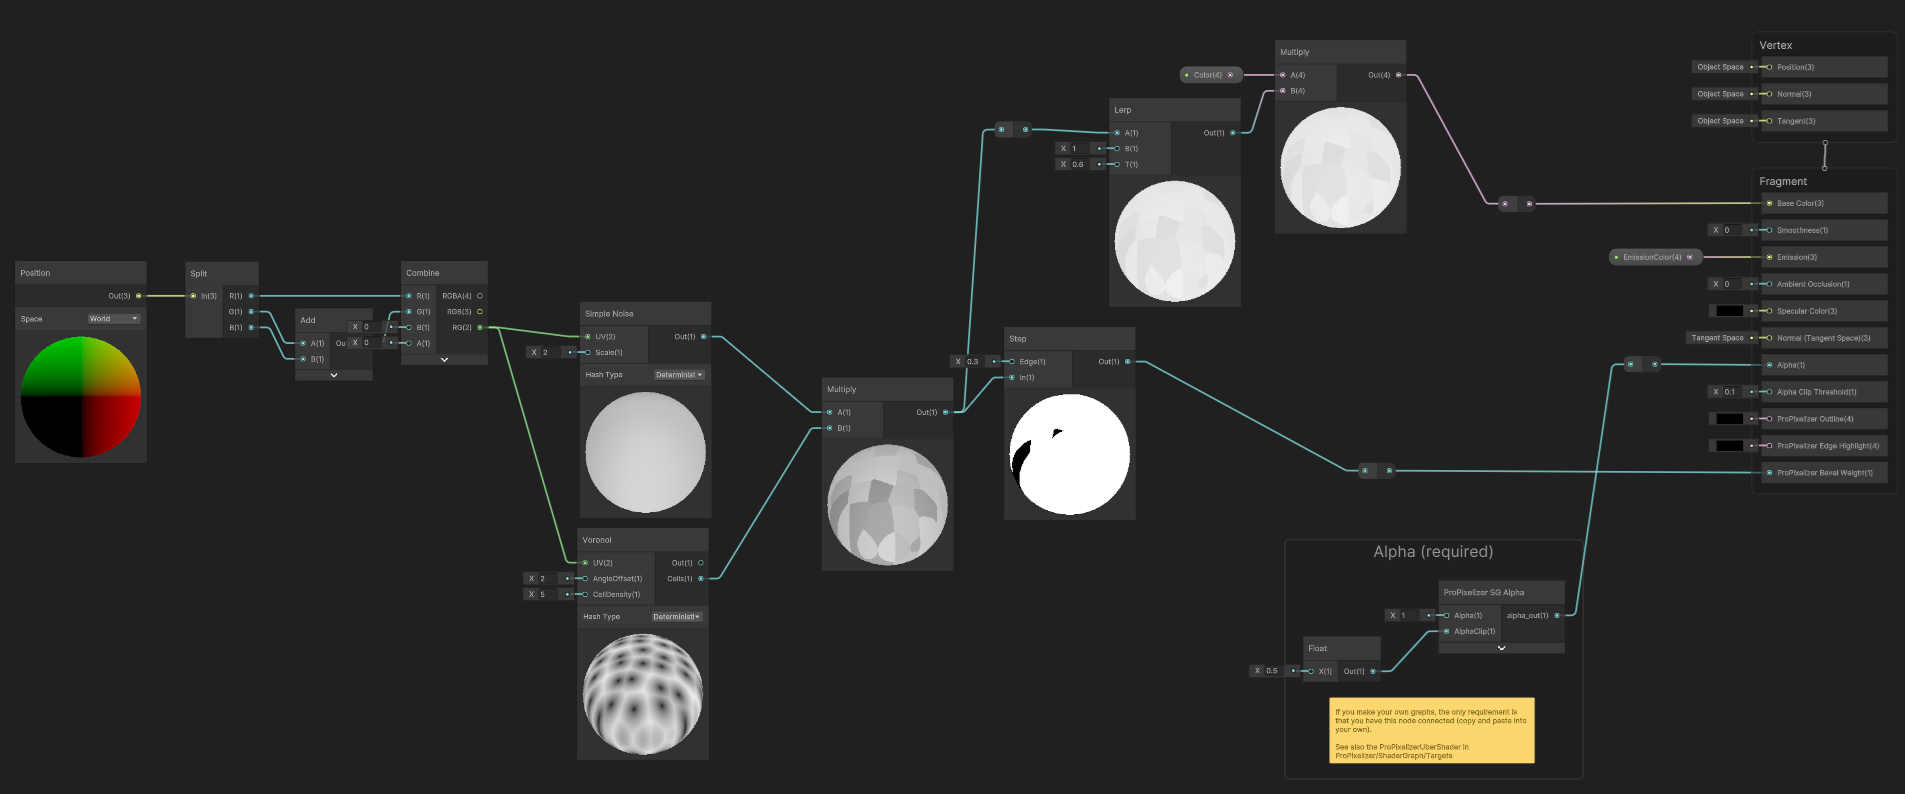
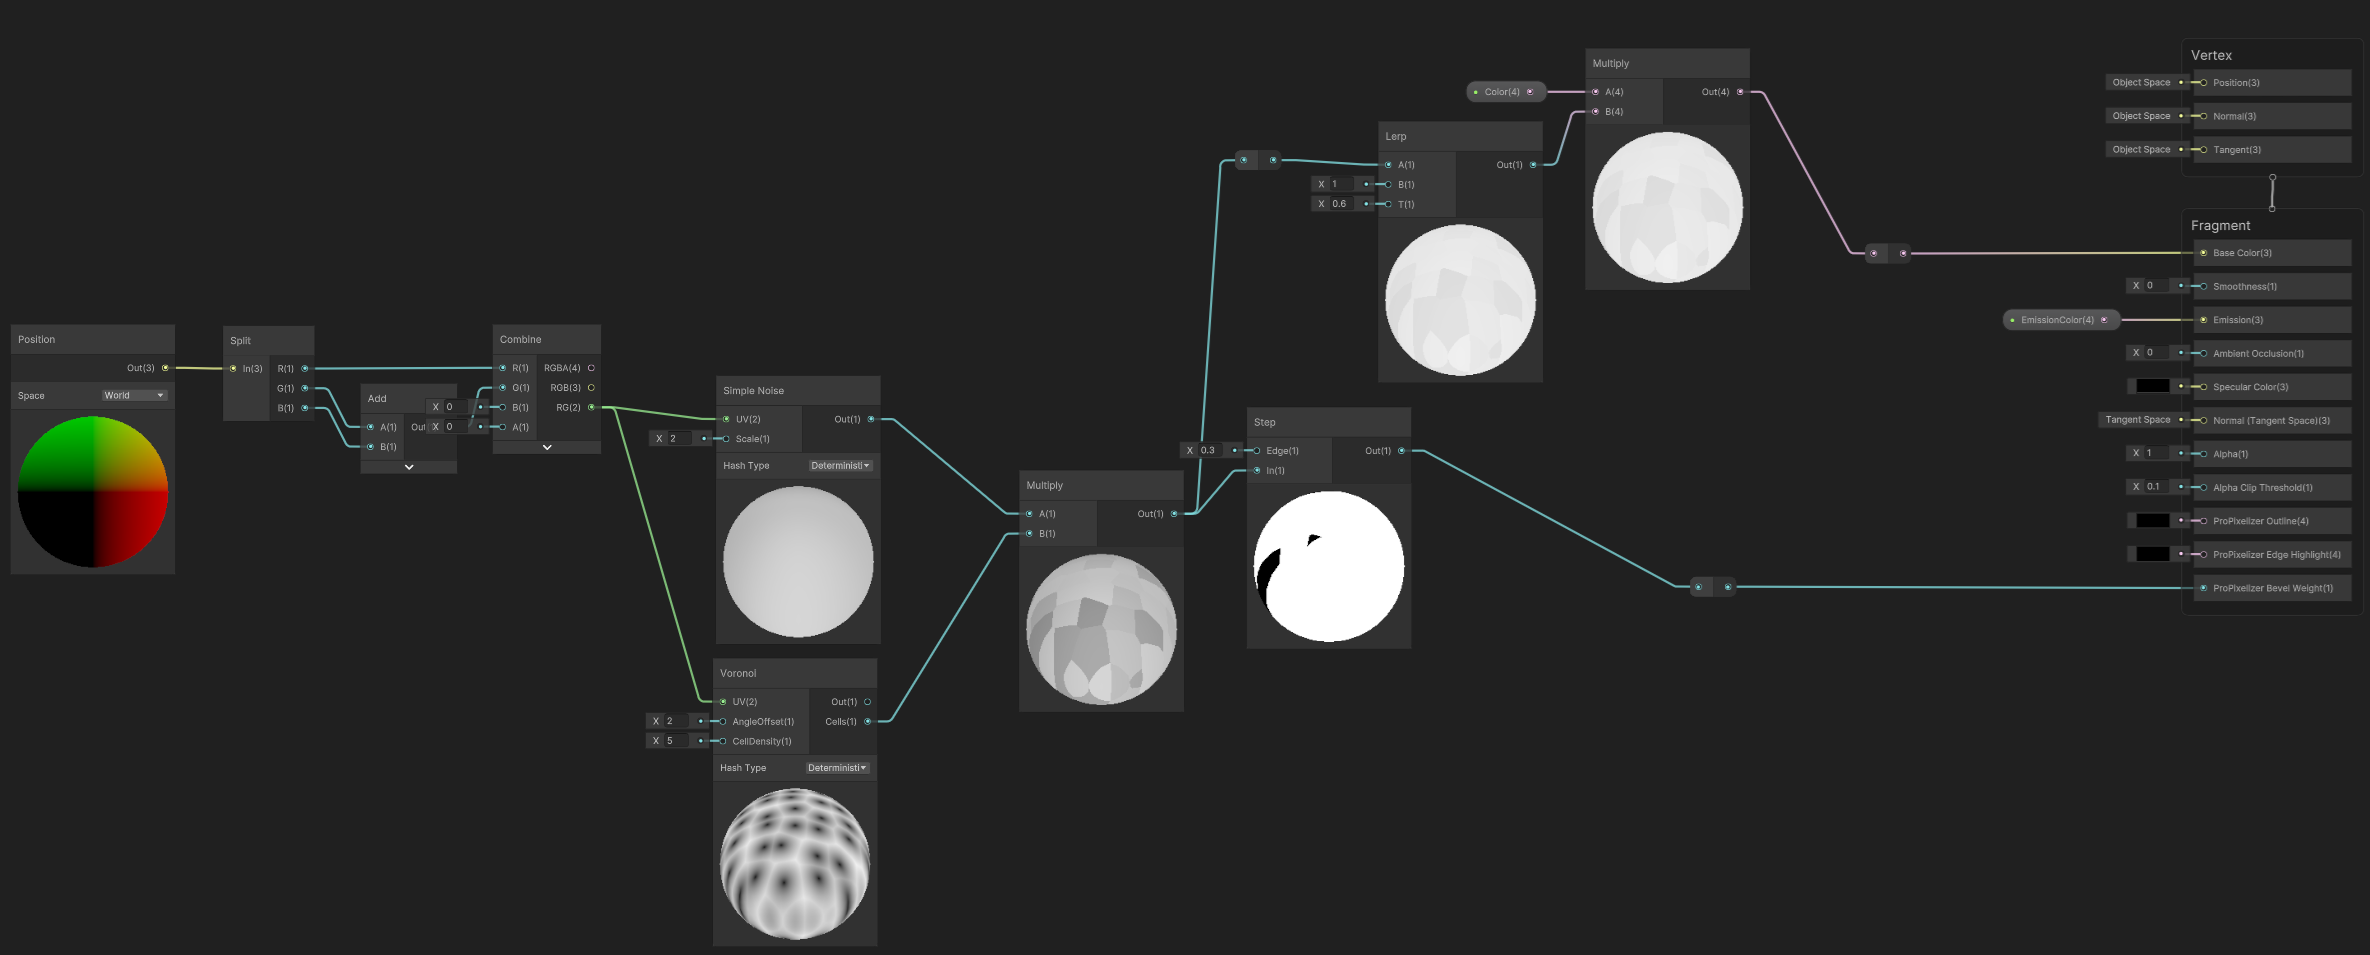
Fix articles broken on missing terminating slash in url, remove required alpha node from shadergraph

diff --git a/templates/shortcodes/example_showcase.html b/templates/shortcodes/example_showcase.html
@@ -17,13 +17,13 @@
         height="512"
         aria-label="{{ media_description }}"
       >
-        <source src="{{ video }}.webm" type="video/webm" />
-        <source src="{{ video }}.mp4" type="video/mp4" />
+        <source src="{{ get_url(path=page.colocated_path ~ video ~ ".webm") | safe }}" type="video/webm" />
+        <source src="{{ get_url(path=page.colocated_path ~ video ~ ".mp4") | safe }}" type="video/mp4" />
         Your browser does not support embedded video.
       </video>
     {% else %}
       <img
-        src="{{ image }}"
+        src="{{ get_url(path=page.colocated_path ~ image) | safe }}"
         alt="{{ media_description }}"
         width="512"
         height="512"

diff --git a/templates/shortcodes/colocated_image.html b/templates/shortcodes/colocated_image.html
@@ -1,0 +1,8 @@
+<img
+  src="{{ get_url(path=page.colocated_path ~ image) | safe }}"
+  alt="{{ alt }}"
+  width="{{ width }}"
+  height="{{ height }}"
+  loading="lazy"
+  decoding="async"
+/>

diff --git a/content/usage/shadergraph/index.md b/content/usage/shadergraph/index.md
@@ -25,10 +25,6 @@ ProPixelizer will automatically add the required material properties, rendering 
 
 ![SubTarget properties](subtarget_props.png)
 
-When creating your own graphs, **the only requirement is that you include the ProPixelizer SG Alpha node**, as in the example below.
-
-![Required node](required.png)
-
 ## Example: Uber Shader
 
 For an example, let's take a look at the `ProPixelizerUberShader`, which is located at `ProPixelizer/ShaderGraph`.
@@ -36,12 +32,18 @@ For an example, let's take a look at the `ProPixelizerUberShader`, which is loca
 ![Uber ShaderGraph View](uber.png)
 
 There are two main calculations going on here to determine (i) a lit color, which will receive light; and (ii) an emission color, which is independent of light in the scene.
-- The lit color uses the `DiffuseVertexcolorWeight` float parameter to blend between either white or the model's `Vertex color`. The result is multiplied by the `color` property to tint it, and then multiplied again by the `Albedo` texture. This is fed into the `Base color` input of the SubTarget.
+- The lit color uses the `DiffuseVertexcolorWeight` float parameter to blend between either white or the model's `Vertex color`. The result is multiplied by the `color` property to tint it, and then multiplied again by the `Albedo` texture. This is fed into the `Base color` input of the SubTarget. The alpha channel is fed into `Alpha`.
 - The emission color is similar. We use the `EmissiveVertexcolorWeight` float parameter to blend between white or the model's `Vertex color`. The result is multiplied by the `Emissioncolor`, and then multiplied by the `Emission` texture. This is fed into the `Emission` input of the SubTarget.
+
+The other areas of the graph follow what you might expect from the Unity lit shader:
+- Normals are sampled from the bump map and wired into `Normal`.
+- Metallicness is sampled from the metallic map and wired into `Metallic`.
+- Specular colour is sampled from the specular map and wired into `Specular Color`
+- Smoothness is taken from either the metallic or specular map, depending on workflow, and wired into `Smoothness`.
 
 ## Example: Animated dashed outline
 
-_This example can be found in the Example Assets, under `ShaderGraph`._
+_This example can be found in the [examples](/getting_started/examples), under `ShaderGraph`._
 
 As mentioned above, the ProPixelizer SubTarget also gives you _per pixel_ control over edges and outlines. In the following example, we use this to create an animated dashed outline - the sort you might have to indicate a unit is selected in an RTS, for instance.
 

diff --git a/content/getting_started/examples/index.md b/content/getting_started/examples/index.md
@@ -62,7 +62,7 @@ ProPixelizer supports both Forward and Forward+ for virtually unlimited addition
       <p>In Unity's Package Manager, choose <code>Packages: In Project</code>, select <code>ProPixelizer</code>, open the <code>Samples</code> tab, and select <code>Import</code>. Each scene includes a readme in its hierarchy with setup notes and further suggestions.</p>
     </div>
     <figure>
-      <img src="how_to_install.png" alt="Unity Package Manager with the ProPixelizer Samples tab open and the Import button highlighted" width="641" height="264" loading="lazy" decoding="async" />
+      {{ colocated_image(image="how_to_install.png", alt="Unity Package Manager with the ProPixelizer Samples tab open and the Import button highlighted", width=641, height=264) }}
       <figcaption>The Samples tab in Unity's Package Manager.</figcaption>
     </figure>
   </section>

diff --git a/templates/shortcodes/article_image.md b/templates/shortcodes/article_image.md
@@ -1,12 +1,12 @@
 <div class="article-image">
 {% if video %}
 <video autoplay muted loop playsinline preload="metadata" width="600" height="600">
-<source src="{{ video }}.webm" type="video/webm" />
-<source src="{{ video }}.mp4" type="video/mp4" />
+<source src="{{ get_url(path=page.colocated_path ~ video ~ ".webm") | safe }}" type="video/webm" />
+<source src="{{ get_url(path=page.colocated_path ~ video ~ ".mp4") | safe }}" type="video/mp4" />
 Your browser does not support embedded video.
 </video>
 {% elif gif %}
-<img src="{{ image }}" width=600 height=600 />
+<img src="{{ get_url(path=page.colocated_path ~ image) | safe }}" width=600 height=600 />
 {% else %}
 {% set image = resize_image(path=page.colocated_path ~ image, height=600, width=600, op="fit") %}
 <img src="{{ image.url }}" />
